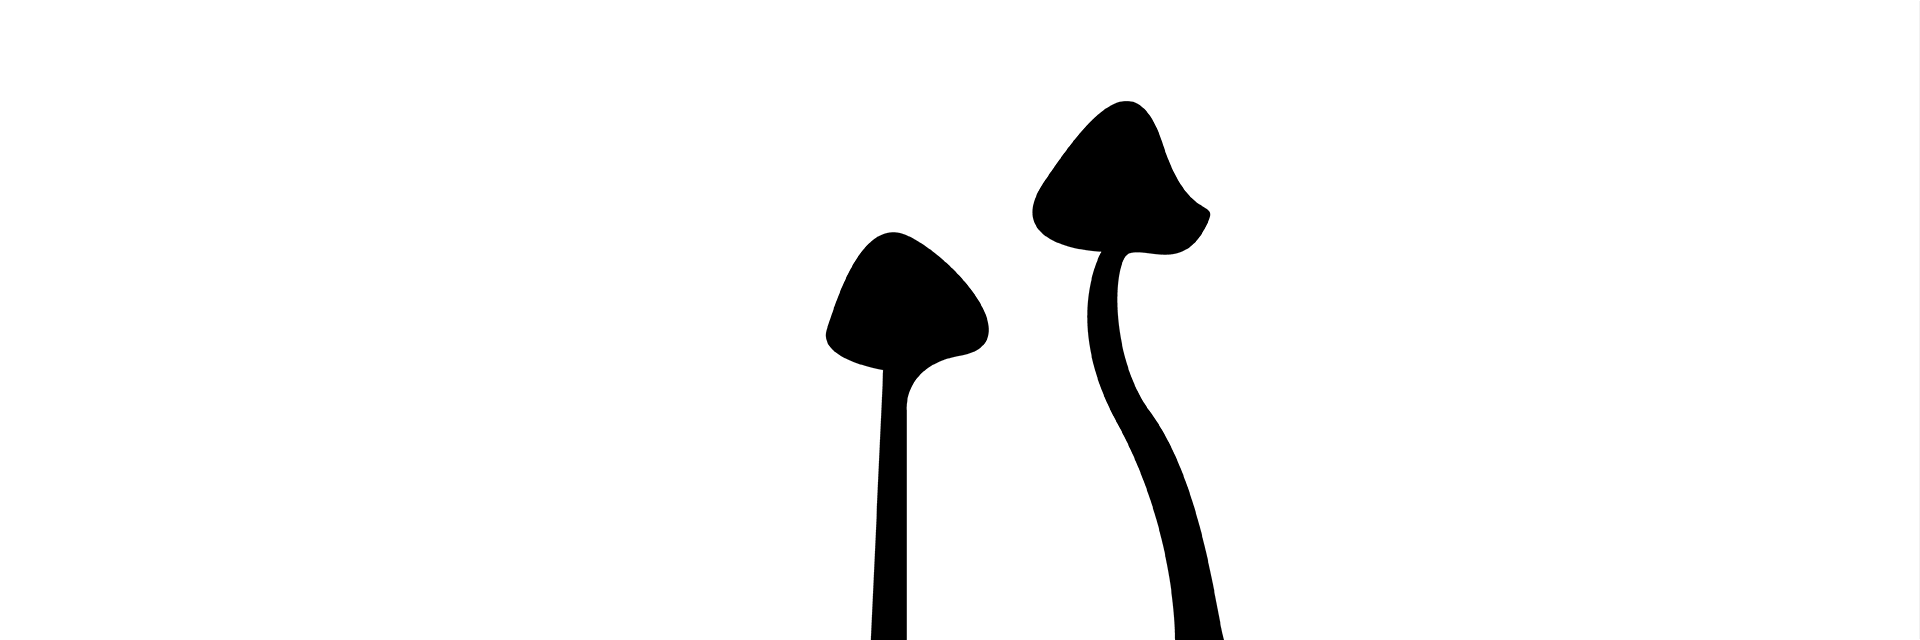
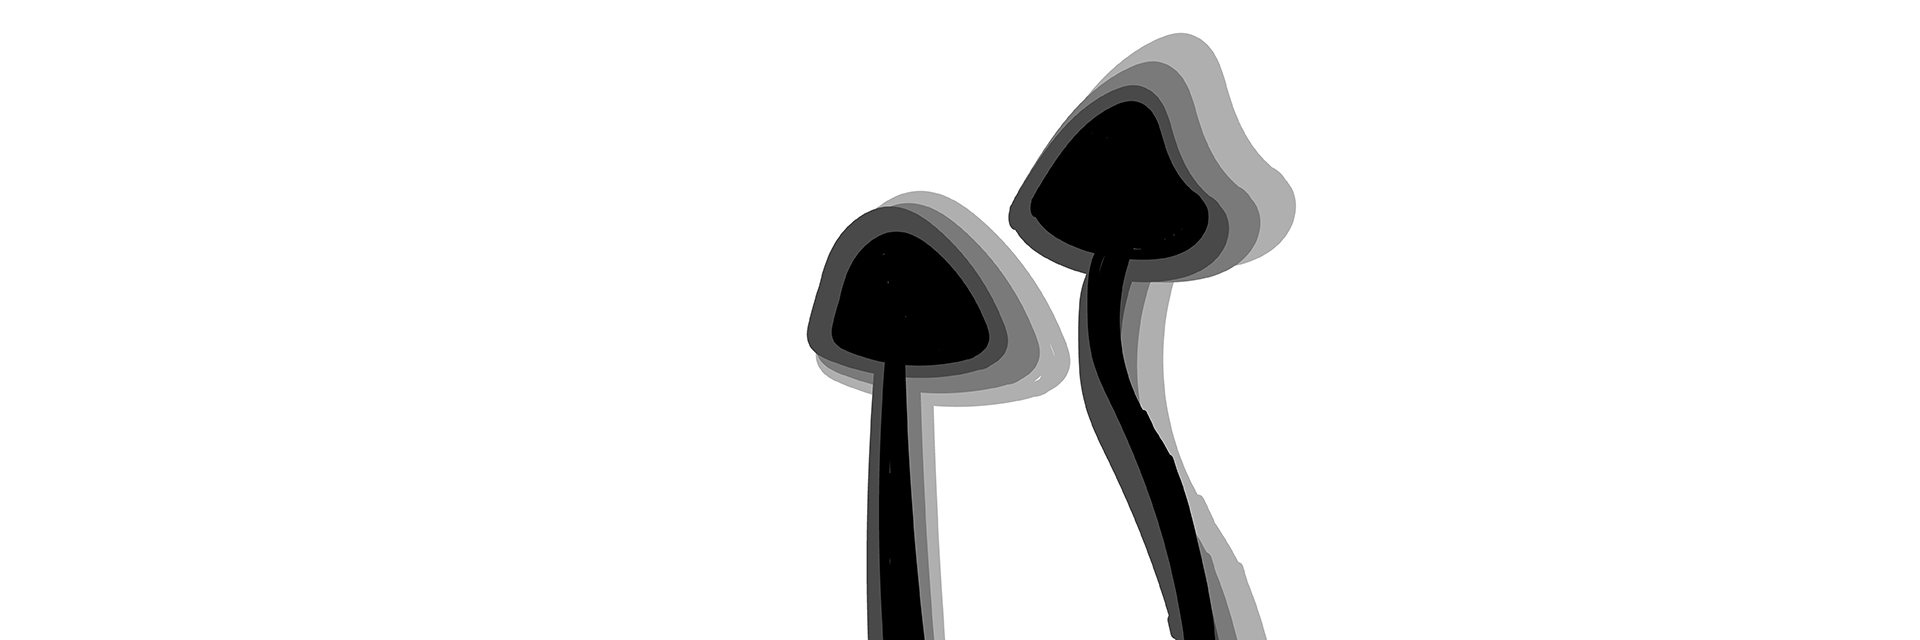
Oval effect

Changed region(s): [[0.4062, 0.0312, 0.6875, 1.0]]

diff --git a/sketch.js b/sketch.js
@@ -1,10 +1,10 @@
-let sourceImg=null;
-let maskImg=null;
-let renderCounter=0;
+let sourceImg = null;
+let maskImg = null;
+let renderCounter = 0;
 
 // change these three lines as appropiate
 let sourceFile = "input_3.jpg";
-let maskFile   = "mask_3.png";
+let maskFile = "mask_3.png";
 let outputFile = "output_3.png";
 
 function preload() {
@@ -12,7 +12,7 @@ function preload() {
   maskImg = loadImage(maskFile);
 }
 
-function setup () {
+function setup() {
   let main_canvas = createCanvas(1920, 640);
   main_canvas.parent('canvasContainer');
 
@@ -23,26 +23,29 @@ function setup () {
   maskImg.loadPixels();
 }
 
-function draw () {
-  for(let i=0;i<4000;i++) {
+function draw() {
+  for (let i = 0; i < 3000; i++) {
     let x = floor(random(sourceImg.width));
     let y = floor(random(sourceImg.height));
     let pix = sourceImg.get(x, y);
     let mask = maskImg.get(x, y);
     fill(pix);
-    //console.log(mask);
+    console.log(mask);
 
-    if(mask[0] > 128) {
-      let pointSize = 8;
+    if (mask[0] > 220) {
+      let pointSize = 3;
+      ellipse(x, y, pointSize, 10);
+    } else if (mask[0] < 140) {
+      let pointSize = 10;
       ellipse(x, y, pointSize, pointSize);
+    } else if (mask[0] < 210) {
+      let pointSize = 6;
+      ellipse(x, y, pointSize, 8);
     }
-    else {
-      let pointSize = 4;
-      ellipse(x, y, pointSize, pointSize);
-    }
+
   }
   renderCounter = renderCounter + 1;
-  if(renderCounter > 140) {
+  if (renderCounter > 60) {
     console.log("Done!")
     noLoop();
     // uncomment this to save the result

diff --git a/README.md b/README.md
@@ -1,7 +1,5 @@
 ## Creative Coding 2: Custom Pixel
 
-So I have settled on three images that I've taken, the first is a close-up image of a bee collecting pollen that I captured recently on a photo walk for this project. The next  is a scene of a rainbow over a house near where I live. Finally I took an image of two small mushrooms that I noticed sprouting out of the ground while out walking. All of these fit into my theme of appreciation for nature. The close-ups exemplify how if we stop to examine seemingly ordinary things, we may find beautiful or unexpected objects, and in my personal experience, these moments bring me great joy. The rainbow is a simple reminder to look out your window every once in a while, and stop to appreciate things that we often don't take the time to notice, like colourful clouds at sunset/sunrise, or a rainbow after a passing shower. Moments like these, again in my personal experience, allow me time to be present, and to ground me in nature and reality - which is often something that gets ignored due to all the digital stimuli in our modern world. 
-
-Currently waiting on a fix for the thumbnail & preview
+I've been experimenting with using ovals for drawing the background, and layering different valued greyscale masks on top of the parts of the image I want to draw attention to. So far I really like the effect and I'm going to continue to see what I can make with it.
 
 [p5.js Pointillism example](https://p5js.org/examples/image-pointillism.html). The masks for each photo highlight various objects.
